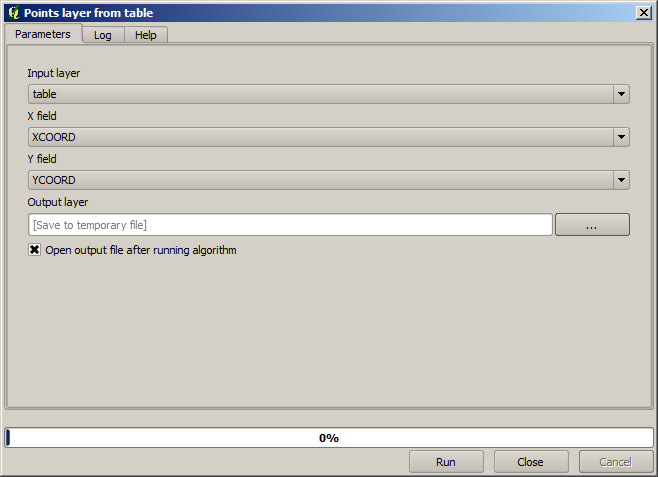
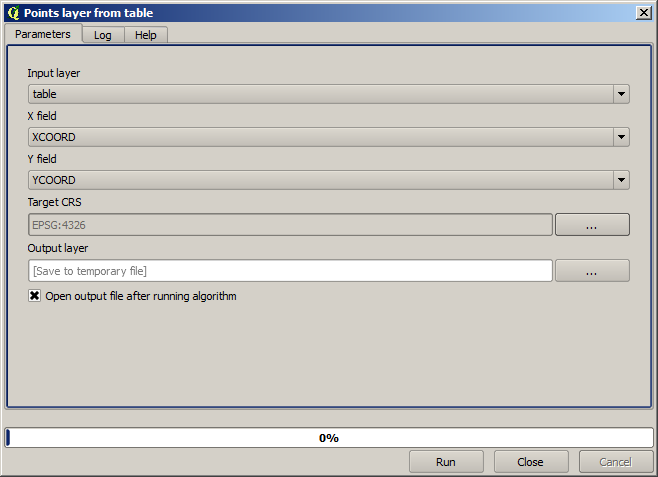
corrected some typos and missing imgs

diff --git a/sphinx/source/first_saga_alg.rst b/sphinx/source/first_saga_alg.rst
@@ -6,7 +6,7 @@ Running an external algorithm
 
 All the algorithms that we have run so far are part of processing framework. That is, they are *native* algorithms implemented in the plugin and run by QGIS just like the plugin itself is run. However, one of the greatest features of the processing framework is that it can use algorithms from external application and extend the possibilites of those applications. Such algorithms are wrapped and included in the toolbox, so you can easily use them from QGIS, and use QGIS data to run them.
 
-Some of the algorithms that you see in the simplified view require third party applications to be installed in your system. One algorithm provider of special interest is SAGA (System for Automated Geospatia Analysis). At the end of this lesson we will run an algorithm called *Convergence index*, which is provided by SAGA and computes a morphometrical measurement from a DEM. But first, we need to configure everything so QGIS can correctly call SAGA. This is not difficult, but it's important to understand how it works. Each external application has its own configuration, and later in this same manual we will talk about some of the other ones, but SAGA is going to be our main backend, so we will discuss it here.
+Some of the algorithms that you see in the simplified view require third party applications to be installed in your system. One algorithm provider of special interest is SAGA (System for Automated Geospatial Analysis). At the end of this lesson we will run an algorithm called *Convergence index*, which is provided by SAGA and computes a morphometrical measurement from a DEM. But first, we need to configure everything so QGIS can correctly call SAGA. This is not difficult, but it's important to understand how it works. Each external application has its own configuration, and later in this same manual we will talk about some of the other ones, but SAGA is going to be our main backend, so we will discuss it here.
 
 If you are on Windows, the best way to work with external algorithms is to install QGIS using the OSGeo4W installer. It will take care of installing all the needed dependencies, including SAGA, so if you have used it, there is nothing else to do. You can open the settings dialog and go to the *Providers/SAGA* group.
 
@@ -49,6 +49,6 @@ Open the *Create graticule from extent* algorithm and use the following values.
 
 We are using  width and height values that is larger than the specified extent, so SAGA cannot produce any output. In other words, the parameter values are wrong, but they are not checked until SAGA gets them and tries to create the graticule. Since it cannot create it, it will not produce the expected layer, and you will see the error message shown above.
 
-Understanding this kind of problems will help you solve them and find an explanation to what is happening. As you can see in the error message, a test is performed to check that the connection with SAGA is working correctly, indicating you that there might be a problem in how the algorithm was executed. This applies not only to SAGA, but also to other external applicatinos as well.
+Understanding this kind of problems will help you solve them and find an explanation to what is happening. As you can see in the error message, a test is performed to check that the connection with SAGA is working correctly, indicating you that there might be a problem in how the algorithm was executed. This applies not only to SAGA, but also to other external applications as well.
 
 In the next lesson we will introduce the processing log, where information about commands run by geoalgorithms is kept, and you will see how to get more detail when issues like this appear.

diff --git a/sphinx/source/interpolation.rst b/sphinx/source/interpolation.rst
@@ -9,7 +9,7 @@ Open the example data for this lesson, which should look like this.
 
 .. image:: img/interpolation/project.png
 
-The data correspond to crop yield data, as produced by a modern harvester, and we will use it to get a raster layer of crop yield. WE do not plan to do any further analysis with that layer, but just to use it as a backgroun layer for easily identifying the most productive areas and also those where productivity can be improved.
+The data correspond to crop yield data, as produced by a modern harvester, and we will use it to get a raster layer of crop yield. We do not plan to do any further analysis with that layer, but just to use it as a backgroun layer for easily identifying the most productive areas and also those where productivity can be improved.
 
 The first thing to do is to clean--up the layer, since it contains redundant points. These are caused by the movement of the harvester, in places where it has to do a turn or it changes its speed for some reason. The *Point filter* algorithm will be useul for this. We will use it twice, to remove points that can be considered outliers both in the upper and lower part of the distribution.
 
@@ -29,7 +29,7 @@ Now let's rasterize the layer using the *Rasterize vector layer* algorith.
 
 .. image:: img/interpolation/rasterize.png
 
-The *Filtered layer* layer refers to the resulting one of the second filter. It has the same name as the one produced by the first filter, since the name is assigned by the algorithm, but you should not use the first one. Since we will not be using it for anything else, you can safely remove it from your proect to avoid confusion, and leave just the last filtered layer.
+The *Filtered layer* layer refers to the resulting one of the second filter. It has the same name as the one produced by the first filter, since the name is assigned by the algorithm, but you should not use the first one. Since we will not be using it for anything else, you can safely remove it from your project to avoid confusion, and leave just the last filtered layer.
 
 The resulting raster layer looks like this.
 

diff --git a/sphinx/source/second_alg.rst b/sphinx/source/second_alg.rst
@@ -6,9 +6,7 @@ More algorithms and data types
 
 For this lessons we will need a table and a polygons layer. We are going to create a points layer based on coordinates in the table, and then count the number of points in each polygon. If you open the QGIS project corresponding to this lesson, you will find a table with X and Y coordinates, but you will find no polygons layer. Don't worry, we will create it using a processing geoalgorithm.
 
-The first thing we are going to do is to create a points layer from the coordinates in the table, using the *Points layer from table* algorithm. You now know how to use the search box, so it should not be hard for you to find it. Double--click on it to run it and get to the following dialog.
-
-.. image:: img/second_alg/points_from_table.png
+The first thing we are going to do is to create a points layer from the coordinates in the table, using the *Points layer from table* algorithm. You now know how to use the search box, so it should not be hard for you to find it. Double--click on it to run it and get to its following dialog.
 
 This algorithm, like the one from the previous lesson, just generates a single output, and it has three inputs:
 
@@ -16,6 +14,7 @@ This algorithm, like the one from the previous lesson, just generates a single o
 - X an Y fields: these two parameters are linked to the first one. The corresponding selector will show the name of those fields that are available in the selected table. Select the *XCOORD* field for the *X* parameter, and the *YYCOORD* field for the *Y* parameter.
 - CRS: Since this algorithm takes no input layers, it cannot assign a CRS to the output layer based on them. Instead, it asks you to manually select the CRS that the coordinates in the table use. Click on the button on the left--hand side to open the QGIS CRS selector, and select EPSG:4326 as the output CRS. We are using this CRS because the coordinates in the table are in that CRS.
 
+Your dialog should look like this.
 
 .. image:: img/second_alg/points_from_table.png
 

diff --git a/sphinx/source/html.rst b/sphinx/source/html.rst
@@ -20,7 +20,7 @@ Run the algorithm selecting the only layer in the project as input, and the *POP
 
 This is the *Results viewer*. It keeps all the HTML result generated during the current session, easily accesible, so you can check them quickly whenever you need it. As it happens with layers, if you have saved the output to a temporary file, it will be deleted once you close QGIS. If you have saved to a non-temporary path, the file will remain, but it will not appear in the *Results viewer* the next time you open QGIS.
 
-Some algorithms generate text that cannot be divided into other more detailed outputs. That is the case if, for instance, the algorithm captures the text output from an external process. In other cases, the output is presented as text, but internally is divided into several smaller outputs, usually in the form of numeric values. The algorithm that we have just executed is one of them. Each one of those values is handled as a single output, and stored in a vriable. This has no importance at all now, but once we move to the graphical modeler, you will see that it will allow us to use those values as numeric inputs for other algorithms. 
+Some algorithms generate text that cannot be divided into other more detailed outputs. That is the case if, for instance, the algorithm captures the text output from an external process. In other cases, the output is presented as text, but internally is divided into several smaller outputs, usually in the form of numeric values. The algorithm that we have just executed is one of them. Each one of those values is handled as a single output, and stored in a variable. This has no importance at all now, but once we move to the graphical modeler, you will see that it will allow us to use those values as numeric inputs for other algorithms. 
 
 
 

diff --git a/sphinx/source/vector_calculator.rst b/sphinx/source/vector_calculator.rst
@@ -4,7 +4,7 @@ Selection
 
 .. note:: In this lesson we will see how to add new attributes to a vector layer based on a mathematical expression, using the vector calculator
 
-We already know how to use the raster calculator to create new raster layers usig mathematical expresions. A similar algorithm is available for vector layer, and generates a new layer with the same attributes of the input layer, plus an additional on with the result of the expression entered. The algorithm is called *Field calculator* and has the following parameters dialog.
+We already know how to use the raster calculator to create new raster layers usig mathematical expressions. A similar algorithm is available for vector layer, and generates a new layer with the same attributes of the input layer, plus an additional on with the result of the expression entered. The algorithm is called *Field calculator* and has the following parameters dialog.
 
 .. image:: img/vector_calculator/field_calculator.png
 

diff --git a/sphinx/source/iterative.rst b/sphinx/source/iterative.rst
@@ -3,7 +3,7 @@ Iterative execution of algorithms
 
 .. note:: This lesson shows a different way of executing algorithms that use vector layers, by running them repeatedly, iterating over the features in an input vector layer
 
-We already know the graphical modeler, which is one way of automating processing tasks. However, in some situations, the modeler might not be what we need to automate a given task. Let's see one of thoses situation and how to easily solve it using a different functionality; the iterative execution of algorithm.
+We already know the graphical modeler, which is one way of automating processing tasks. However, in some situations, the modeler might not be what we need to automate a given task. Let's see one of those situation and how to easily solve it using a different functionality: the iterative execution of algorithms.
 
 Open the data corresponding to this chapter. It should look like this.
 

diff --git a/sphinx/source/log.rst b/sphinx/source/log.rst
@@ -26,7 +26,7 @@ This is helpful to understand what is going on. Advanced users will be able to a
 
 .. image:: img/log/history.png
 
-This can be very useful when starting wroking with the console, to learn about the syntax of algorithms. We will use it when we discuss how to run analysis commands from the console.
+This can be very useful when starting working with the console, to learn about the syntax of algorithms. We will use it when we discuss how to run analysis commands from the console.
 
 The history is also interactive, and you can re--run any previous algorithm just by double--clicking on its entry. This is an easy way of replicating the work we already did before.
 
